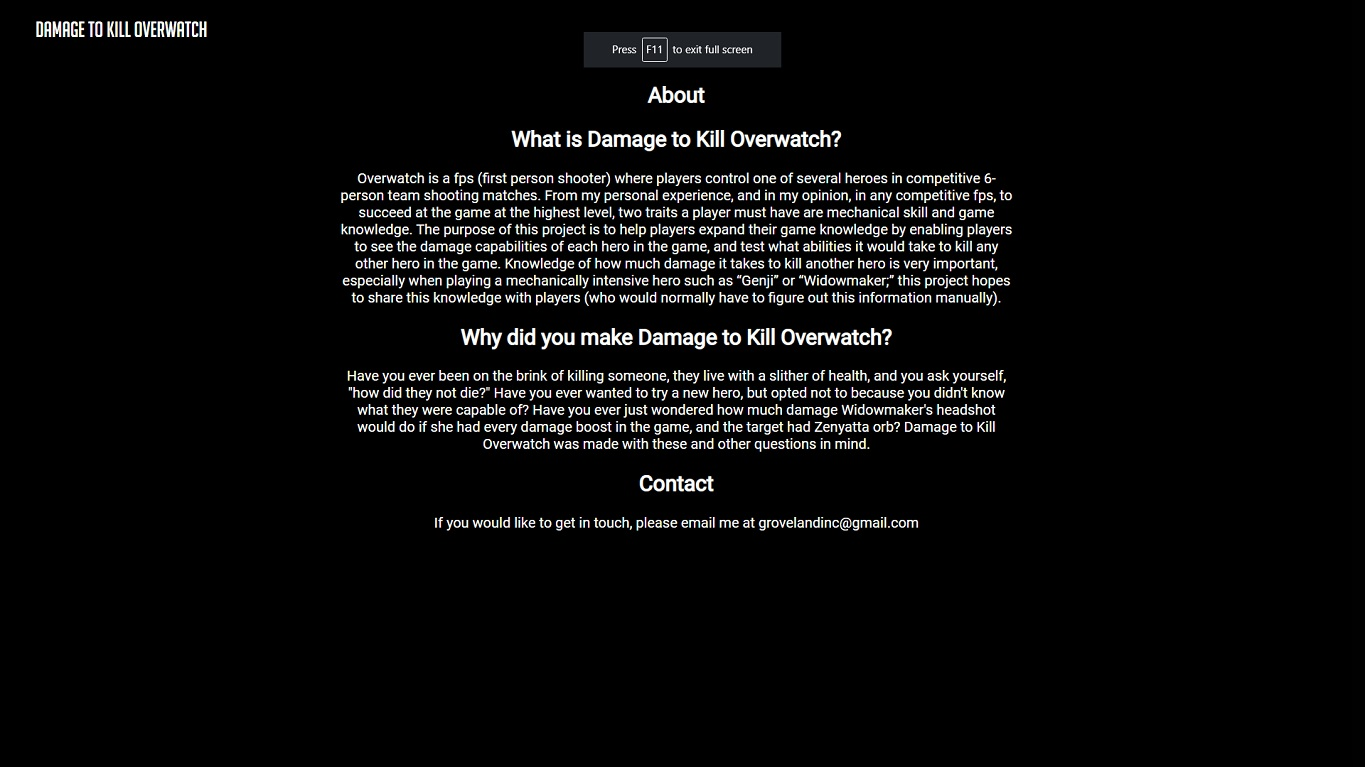
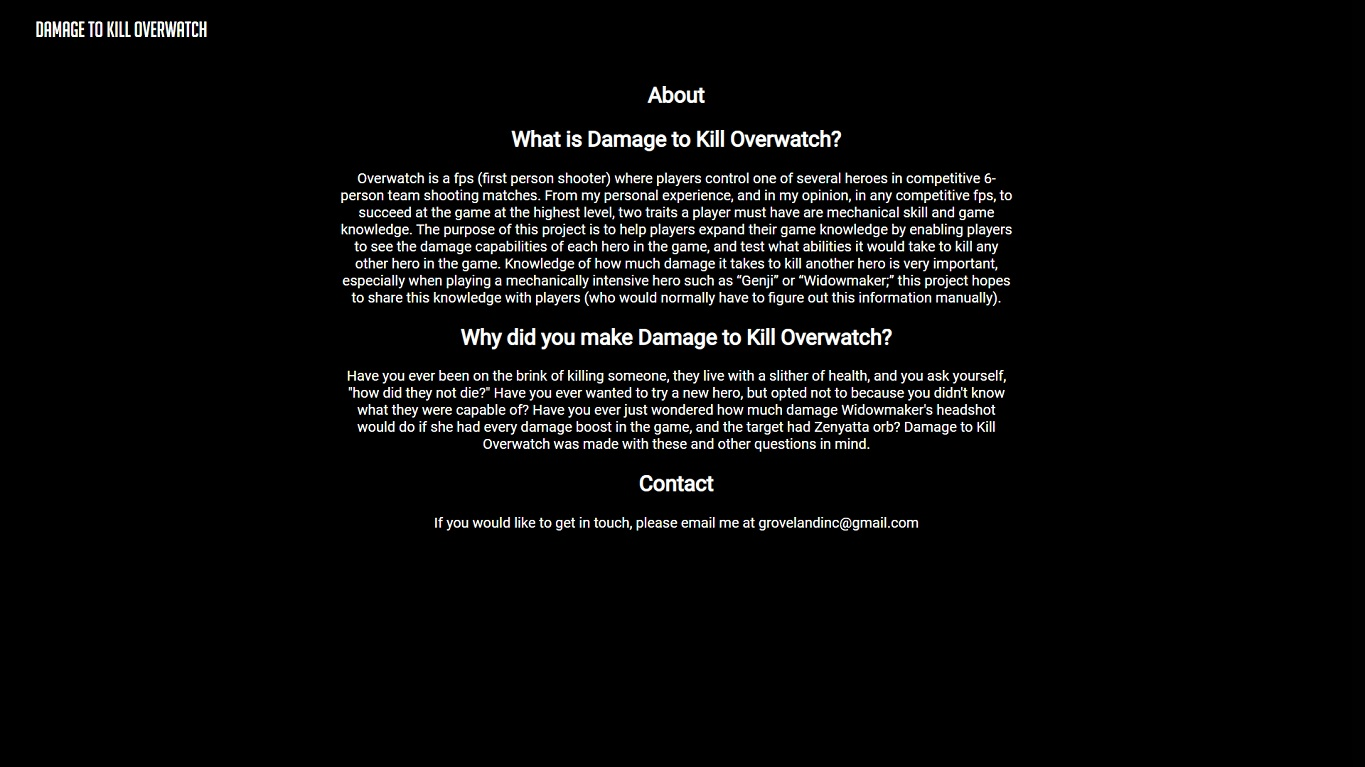
Fixed issue with on of photos (photo 4) of d2koverwatch

Changed region(s): [[0.4308, 0.03, 0.5846, 0.09]]

diff --git a/build/index.html b/build/index.html
@@ -1,1 +1,1 @@
-<!doctype html><html lang="en"><head><meta charset="utf-8"/><link rel="shortcut icon" href="/favicon.ico"/><meta name="viewport" content="width=device-width,initial-scale=1,shrink-to-fit=no"/><meta name="theme-color" content="#000000"/><link rel="manifest" href="/manifest.json"/><link rel="stylesheet" href="https://maxcdn.bootstrapcdn.com/bootstrap/4.2.1/css/bootstrap.min.css" integrity="sha384-GJzZqFGwb1QTTN6wy59ffF1BuGJpLSa9DkKMp0DgiMDm4iYMj70gZWKYbI706tWS" crossorigin="anonymous"/><link href="https://fonts.googleapis.com/css?family=Roboto&display=swap" rel="stylesheet"><title>Romin Kershaw Portfolio</title><link href="/static/css/2.b40666b6.chunk.css" rel="stylesheet"><link href="/static/css/main.a7dec3ea.chunk.css" rel="stylesheet"></head><body><noscript>You need to enable JavaScript to run this app.</noscript><div id="root"></div><script>!function(l){function e(e){for(var r,t,n=e[0],o=e[1],u=e[2],f=0,i=[];f<n.length;f++)t=n[f],p[t]&&i.push(p[t][0]),p[t]=0;for(r in o)Object.prototype.hasOwnProperty.call(o,r)&&(l[r]=o[r]);for(s&&s(e);i.length;)i.shift()();return c.push.apply(c,u||[]),a()}function a(){for(var e,r=0;r<c.length;r++){for(var t=c[r],n=!0,o=1;o<t.length;o++){var u=t[o];0!==p[u]&&(n=!1)}n&&(c.splice(r--,1),e=f(f.s=t[0]))}return e}var t={},p={1:0},c=[];function f(e){if(t[e])return t[e].exports;var r=t[e]={i:e,l:!1,exports:{}};return l[e].call(r.exports,r,r.exports,f),r.l=!0,r.exports}f.m=l,f.c=t,f.d=function(e,r,t){f.o(e,r)||Object.defineProperty(e,r,{enumerable:!0,get:t})},f.r=function(e){"undefined"!=typeof Symbol&&Symbol.toStringTag&&Object.defineProperty(e,Symbol.toStringTag,{value:"Module"}),Object.defineProperty(e,"__esModule",{value:!0})},f.t=function(r,e){if(1&e&&(r=f(r)),8&e)return r;if(4&e&&"object"==typeof r&&r&&r.__esModule)return r;var t=Object.create(null);if(f.r(t),Object.defineProperty(t,"default",{enumerable:!0,value:r}),2&e&&"string"!=typeof r)for(var n in r)f.d(t,n,function(e){return r[e]}.bind(null,n));return t},f.n=function(e){var r=e&&e.__esModule?function(){return e.default}:function(){return e};return f.d(r,"a",r),r},f.o=function(e,r){return Object.prototype.hasOwnProperty.call(e,r)},f.p="/";var r=window.webpackJsonp=window.webpackJsonp||[],n=r.push.bind(r);r.push=e,r=r.slice();for(var o=0;o<r.length;o++)e(r[o]);var s=n;a()}([])</script><script src="/static/js/2.a0e0c617.chunk.js"></script><script src="/static/js/main.662f50a1.chunk.js"></script></body></html>
+<!doctype html><html lang="en"><head><meta charset="utf-8"/><link rel="shortcut icon" href="/favicon.ico"/><meta name="viewport" content="width=device-width,initial-scale=1,shrink-to-fit=no"/><meta name="theme-color" content="#000000"/><link rel="manifest" href="/manifest.json"/><link rel="stylesheet" href="https://maxcdn.bootstrapcdn.com/bootstrap/4.2.1/css/bootstrap.min.css" integrity="sha384-GJzZqFGwb1QTTN6wy59ffF1BuGJpLSa9DkKMp0DgiMDm4iYMj70gZWKYbI706tWS" crossorigin="anonymous"/><link href="https://fonts.googleapis.com/css?family=Roboto&display=swap" rel="stylesheet"><title>Romin Kershaw Portfolio</title><link href="/static/css/2.b40666b6.chunk.css" rel="stylesheet"><link href="/static/css/main.a7dec3ea.chunk.css" rel="stylesheet"></head><body><noscript>You need to enable JavaScript to run this app.</noscript><div id="root"></div><script>!function(l){function e(e){for(var r,t,n=e[0],o=e[1],u=e[2],f=0,i=[];f<n.length;f++)t=n[f],p[t]&&i.push(p[t][0]),p[t]=0;for(r in o)Object.prototype.hasOwnProperty.call(o,r)&&(l[r]=o[r]);for(s&&s(e);i.length;)i.shift()();return c.push.apply(c,u||[]),a()}function a(){for(var e,r=0;r<c.length;r++){for(var t=c[r],n=!0,o=1;o<t.length;o++){var u=t[o];0!==p[u]&&(n=!1)}n&&(c.splice(r--,1),e=f(f.s=t[0]))}return e}var t={},p={1:0},c=[];function f(e){if(t[e])return t[e].exports;var r=t[e]={i:e,l:!1,exports:{}};return l[e].call(r.exports,r,r.exports,f),r.l=!0,r.exports}f.m=l,f.c=t,f.d=function(e,r,t){f.o(e,r)||Object.defineProperty(e,r,{enumerable:!0,get:t})},f.r=function(e){"undefined"!=typeof Symbol&&Symbol.toStringTag&&Object.defineProperty(e,Symbol.toStringTag,{value:"Module"}),Object.defineProperty(e,"__esModule",{value:!0})},f.t=function(r,e){if(1&e&&(r=f(r)),8&e)return r;if(4&e&&"object"==typeof r&&r&&r.__esModule)return r;var t=Object.create(null);if(f.r(t),Object.defineProperty(t,"default",{enumerable:!0,value:r}),2&e&&"string"!=typeof r)for(var n in r)f.d(t,n,function(e){return r[e]}.bind(null,n));return t},f.n=function(e){var r=e&&e.__esModule?function(){return e.default}:function(){return e};return f.d(r,"a",r),r},f.o=function(e,r){return Object.prototype.hasOwnProperty.call(e,r)},f.p="/";var r=window.webpackJsonp=window.webpackJsonp||[],n=r.push.bind(r);r.push=e,r=r.slice();for(var o=0;o<r.length;o++)e(r[o]);var s=n;a()}([])</script><script src="/static/js/2.a0e0c617.chunk.js"></script><script src="/static/js/main.3c8b3063.chunk.js"></script></body></html>

diff --git a/build/service-worker.js b/build/service-worker.js
@@ -14,7 +14,7 @@
 importScripts("https://storage.googleapis.com/workbox-cdn/releases/3.6.3/workbox-sw.js");
 
 importScripts(
-  "/precache-manifest.5980da3126aba294c011883d4e5d0760.js"
+  "/precache-manifest.1f0292443a4d3d1fadaa8a0f3acab61d.js"
 );
 
 workbox.clientsClaim();
